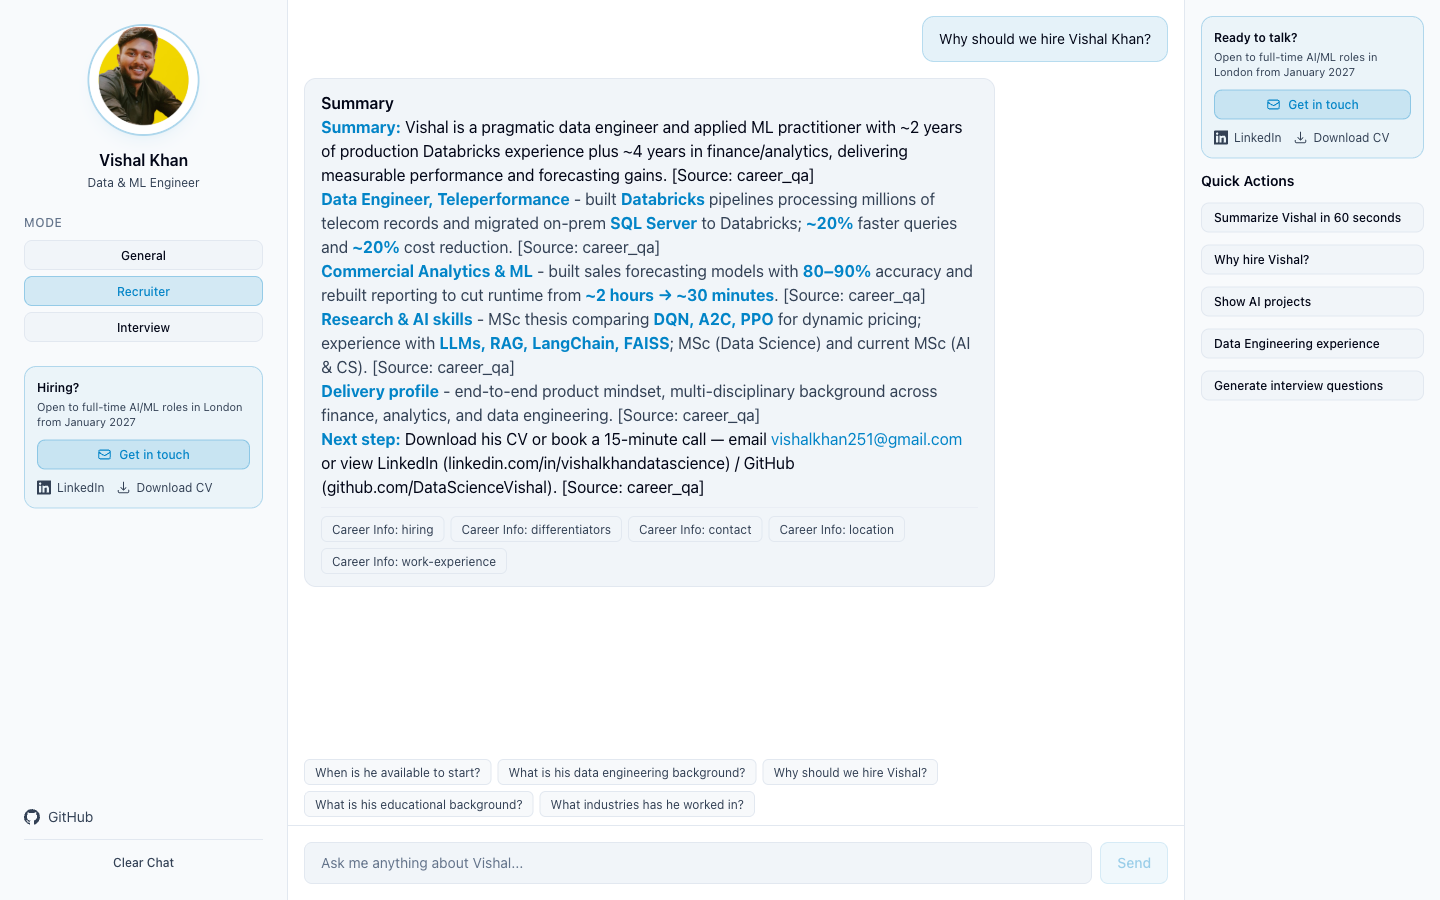
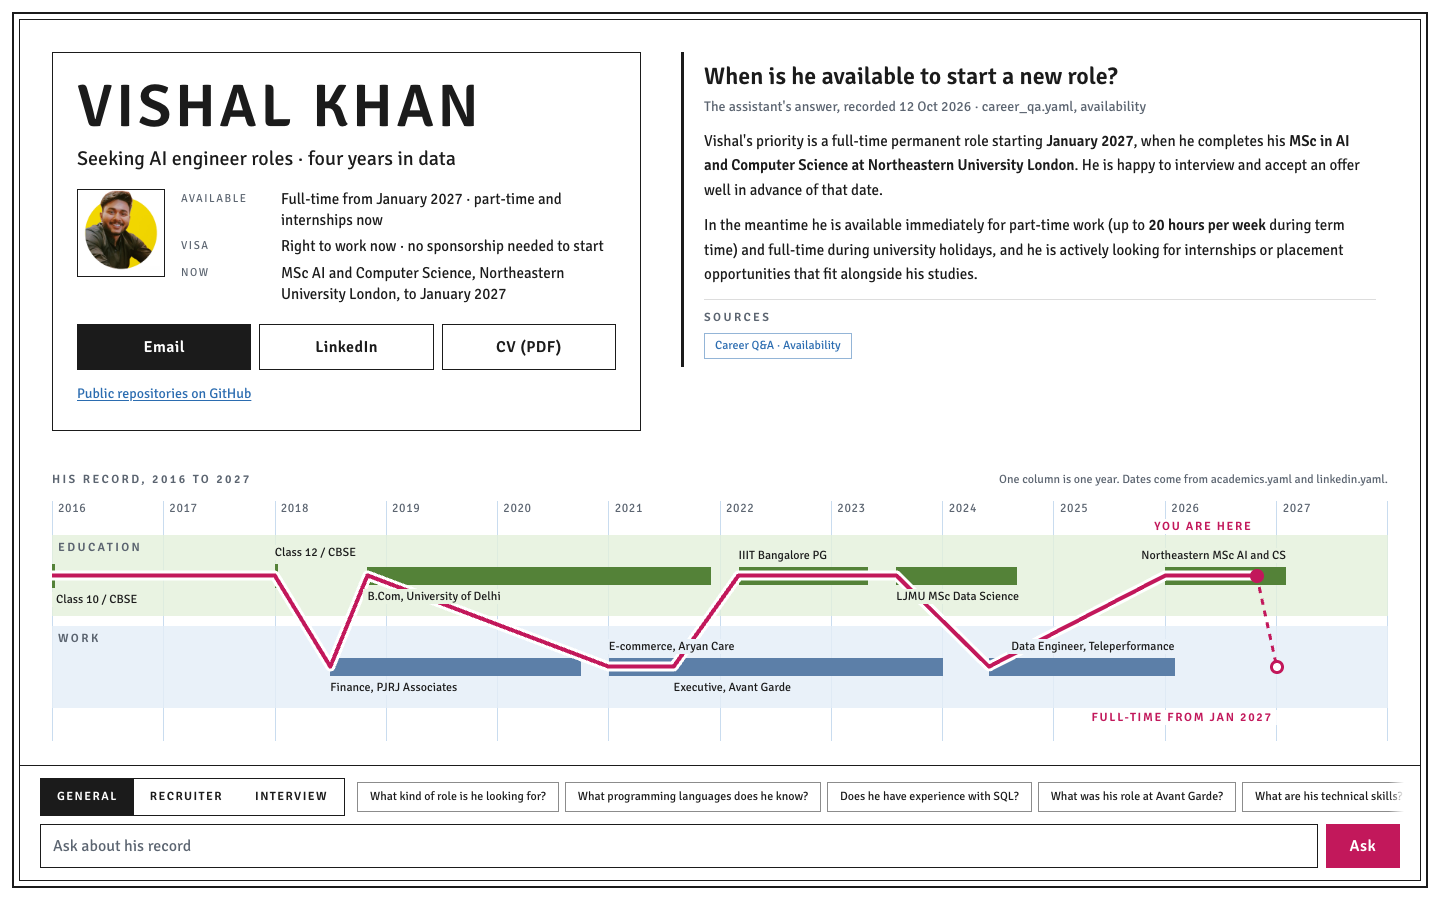
docs: describe the survey sheet in the README and drop the Railway notes
The README now covers the layers, the dated record and /timeline, the
history trim and the last tool call, and the Node version the engines
field asks for, with a fresh screenshot. The frontend README and
.env.example describe the Azure rewrite that vercel.json has instead of
a Railway placeholder.

diff --git a/README.md b/README.md
@@ -16,7 +16,7 @@
 
 ### [→ Try it live at ai-professional-twin.vercel.app](https://ai-professional-twin.vercel.app)
 
-No signup. Pick a mode, ask a question, watch the answer stream in with its sources.
+No signup. Pick a layer, ask a question, and watch the answer stream in with its sources.
 
 </div>
 
@@ -25,7 +25,7 @@ No signup. Pick a mode, ask a question, watch the answer stream in with its sour
   GIF of a live answer streaming in, drop it at docs/demo.gif and point the
   line below at it.
 -->
-![AI Digital Twin chat interface](docs/screenshot.png)
+![The first sheet: the title panel, a recorded answer with its source, and his record from 2016 to 2027 drawn as a route](docs/screenshot.png)
 
 ---
 
@@ -33,8 +33,9 @@ No signup. Pick a mode, ask a question, watch the answer stream in with its sour
 
 - **Answers questions about one person, from evidence.** Every response is generated from a curated knowledge base: YAML files covering projects, skills, education, certifications and career Q&A, plus the resume PDF and live data pulled from public GitHub repositories. **89 documents were indexed** in the running deployment when `/ready` was read on 2026-10-12. Each ingested GitHub repository is one document, so the count changes when one is added or removed.
 - **Shows its working.** Each answer ends with the source chunks it was built from, so you can see whether a claim came from the resume, the academic record, or a repository README.
-- **Three modes for three audiences.** *General* is conversational, *Recruiter* returns a one-line summary plus quantified bullets under 150 words, and *Interview* goes deep on architecture and trade-offs — and renders Mermaid diagrams inline when it explains a system.
-- **Calls tools when static text is not enough.** Eight function-calling tools let the model fetch live repository stats, search repos, compute years of experience, count projects by category, and hand back a resume download link.
+- **Lays the record out as one sheet.** The page opens on a title panel with availability, visa status and the current MSc, one real answer the assistant gave on 12 Oct 2026 with its source, and his education and work drawn as a route from 2016 to 2027 from the dated record at `/timeline`. Opening a source on an answer lights the entries it points at.
+- **Three layers for three audiences.** *General* is conversational, *Recruiter* returns a one-line summary plus quantified bullets under 150 words, and *Interview* goes deep on architecture and trade-offs, and renders Mermaid diagrams inline when it explains a system. Each layer also re-plots the sheet: Recruiter brings the screening facts forward, and Interview lets the record's graphics recede so its system questions lead.
+- **Calls tools when static text is not enough.** Eight function-calling tools let the model fetch repository stats from GitHub (cached for the life of each process), search repos, compute years of experience, count projects by category, and hand back a resume download link.
 - **Declines rather than guesses.** The system prompt forbids fabrication, keeps the assistant inside professional scope, and treats retrieved text as data rather than instructions.
 
 ## Ask it things like
@@ -47,7 +48,7 @@ No signup. Pick a mode, ask a question, watch the answer stream in with its sour
 | What databases has he worked with? | How has he demonstrated impact in previous roles? | How do you handle prompt injection? |
 | What is his experience with RAG systems? | What is his data engineering background? | What would you change about this architecture? |
 
-The UI shuffles a rotating set of these as suggestion chips; the full list lives in [`frontend/src/lib/constants.ts`](frontend/src/lib/constants.ts).
+Recruiter and Interview open on their own curated lists. After the first question, and always on General, the row under the sheet shows five of these, reshuffled after every question. The full lists live in [`frontend/src/lib/constants.ts`](frontend/src/lib/constants.ts).
 
 ## Architecture
 
@@ -57,7 +58,7 @@ flowchart LR
     V["Vercel<br/>static assets + /api rewrite"]
     F["Azure Container Apps<br/>FastAPI app"]
     R["Retriever<br/>intent, boost, threshold"]
-    C[("ChromaDB<br/>cosine, persistent volume")]
+    C[("ChromaDB<br/>cosine, on disk")]
     E["Azure OpenAI<br/>text-embedding-3-small"]
     L["Azure OpenAI<br/>gpt-5-mini"]
     T["Tool registry<br/>8 functions"]
@@ -75,18 +76,19 @@ flowchart LR
     F -->|"SSE stream"| B
 ```
 
-The browser only ever talks to its own origin. Vercel rewrites `/api/:path*` to the Azure Container Apps host with the `/api` prefix stripped, so the FastAPI routes stay unprefixed (`/chat`, `/projects`, `/skills`, `/health`, `/ready`, `/resume/download`) and **there is no CORS in production**. [`frontend/vite.config.ts`](frontend/vite.config.ts) mirrors the same rewrite for local development, so dev and prod behave identically and no build-time env var is needed.
+The browser only ever talks to its own origin. Vercel rewrites `/api/:path*` to the Azure Container Apps host with the `/api` prefix stripped, so the FastAPI routes stay unprefixed (`/chat`, `/projects`, `/skills`, `/timeline`, `/health`, `/ready`, `/resume/download`) and **there is no CORS in production**. [`frontend/vite.config.ts`](frontend/vite.config.ts) mirrors the same rewrite for local development, so dev and prod behave identically and no build-time env var is needed.
 
 | Endpoint | Method | Purpose |
 | --- | --- | --- |
 | `/chat` | POST | SSE stream of answer chunks, tool activity and sources |
 | `/projects`, `/projects/{slug}` | GET | Portfolio data straight from `projects.yaml` |
 | `/skills` | GET | Skill categories from `skills.yaml` |
+| `/timeline` | GET | The dated record behind the route map, from `academics.yaml` and `linkedin.yaml`. A malformed entry is logged and skipped |
 | `/resume/download` | GET | Resume PDF |
 | `/health` | GET | Liveness. Dependency-free, answers during cold start |
 | `/ready` | GET | Readiness. 503 until the store has documents; reports the count |
 
-Splitting liveness from readiness matters: the platform health check points at `/health`, because `/ready` returns 503 until ingestion finishes and would restart-loop a cold boot.
+Splitting liveness from readiness matters: point the platform's health check at `/health`, because `/ready` returns 503 until the store holds its first document and would restart-loop a cold boot.
 
 <details>
 <summary><b>How the RAG pipeline works</b> — ingestion, retrieval, generation</summary>
@@ -122,6 +124,7 @@ GitHub ingestion is best-effort: READMEs are fetched concurrently with a semapho
 | Chunks passed to the model | 5 | `Retriever.top_k` |
 | Candidates fetched from Chroma | `top_k × 4` | `OVERFETCH_FACTOR` |
 | Relevance cutoff | 0.75 cosine distance | `MAX_DISTANCE` |
+| Cutoff for GitHub chunks | 0.55 cosine distance | `SOURCE_MAX_DISTANCE` |
 | Preferred-source boost | 0.12 subtracted from distance | `SOURCE_BOOST` |
 | Prior user turns folded into the query | 2 | `HISTORY_TURNS` |
 
@@ -131,9 +134,9 @@ Follow-up questions like *"what tools did he use?"* embed to almost nothing on t
 
 ### Generation
 
-The system prompt is assembled per request from three parts: a base identity with hard scope and anti-fabrication rules, a mode-specific formatting template, and the retrieved context wrapped in `<retrieved_context>` tags with an explicit instruction that everything inside is untrusted data. Response rules require `[Source: X]` citations and a Mermaid diagram whenever an architecture is explained.
+The system prompt is assembled per request from three parts: a base identity with hard scope and anti-fabrication rules, a mode-specific formatting template, and the retrieved context wrapped in `<retrieved_context>` tags with an explicit instruction that everything inside is untrusted data. Interview answers cite `[Source: X]` inline, while General and Recruiter leave citations to the sources listed under each answer. The response rules also ask for a Mermaid diagram whenever an architecture is explained.
 
-Generation streams over SSE. The tool loop runs up to three rounds of tool calls, emitting `tool_start` and `tool_result` events so the UI can show what the model is doing mid-answer, then `sources` and `done`. Token usage is requested via `stream_options` and logged server-side for cost tracking — it is never forwarded to the browser. Failures mid-stream are caught, logged with the exception type, and replaced with a safe user-facing message so the connection never dies with a blank bubble.
+Generation streams over SSE. The model sees at most the last six turns of the conversation the browser replays, and at most 32,000 bytes of their text. The tool loop runs up to three rounds of tool calls, and the call after the last round offers no tools, so it has to answer. Tool calls emit `tool_start` and `tool_result` events so the UI can show what the model is doing mid-answer, and the stream ends with `sources` and `done`. Token usage is requested via `stream_options` and logged server-side for cost tracking, and never forwarded to the browser. Failures mid-stream are caught, logged with the exception type, and replaced with a safe user-facing message so the connection never dies with a blank answer.
 
 </details>
 
@@ -150,7 +153,7 @@ Generation streams over SSE. The tool loop runs up to three rounds of tool calls
 
 **Retrieved context is untrusted input.** Part of the knowledge base is ingested automatically from public GitHub READMEs, which is a live prompt-injection surface. Context is delimited in `<retrieved_context>` tags, the prompt states that everything inside is data rather than instructions, and the response rules repeat the constraint and forbid echoing any injected instruction back to the user. Neither is a guarantee, but the alternative — pasting third-party markdown straight into the system prompt — is strictly worse.
 
-**Two independent cost controls.** A per-IP `slowapi` limit (10 requests/minute on `/chat`, 60/minute elsewhere) stops one visitor hammering the endpoint, and a global daily completion budget caps total spend across all visitors. Exhausting the budget returns a polite SSE message pointing at the contact link instead of a 500. The budget counter is in process memory, so with multiple replicas the effective cap is `budget × replicas` — documented in the code, and fine for a single-instance personal site.
+**Cost controls.** A per-IP `slowapi` limit (10 requests/minute on `/chat`, 60/minute elsewhere) stops one visitor hammering the endpoint, and a global daily completion budget caps the number of answers across all visitors. Each answer has a ceiling too: the history trim above bounds what the model reads, and the last call offers no tools. Exhausting the budget returns an SSE refusal with a `budget_exhausted` code, which the page follows with an email link, instead of a 500. The budget counter is in process memory, so with multiple replicas the effective cap is `budget × replicas`. That is documented in the code, and fine for a single-instance personal site.
 
 **Temperature is omitted for GPT-5-family models.** GPT-5 and o-series deployments reject any non-default temperature with an HTTP 400, and take the output cap as `max_completion_tokens` rather than `max_tokens`. The client detects the family from the model name and adjusts both, with `LLM_SEND_TEMPERATURE` available to override the heuristic when a deployment disagrees.
 
@@ -169,7 +172,7 @@ Generation streams over SSE. The tool loop runs up to three rounds of tool calls
 | Streaming | `sse-starlette` | Typed SSE events consumed by a hand-rolled reader |
 | Throttling | `slowapi` + in-process daily budget | Per-IP limits and a global spend ceiling |
 | Logging | `structlog` | One structured `chat_query` event per request |
-| Frontend | React 19, Vite, TypeScript, Tailwind CSS 4 | `react-markdown` + `rehype-highlight`, `framer-motion` |
+| Frontend | React 19, Vite, TypeScript, Tailwind CSS 4 | `react-markdown` + `rehype-highlight`, `framer-motion`, Signika from `@fontsource` (OFL-1.1, licence shipped in `public/licenses/`) |
 | Diagrams | `mermaid` | Rendered client-side in Interview mode |
 | Tests | pytest + `pytest-asyncio`, Vitest + Testing Library | Azure OpenAI is mocked, so CI needs no Azure key |
 | Quality | ruff, mypy (strict), oxlint, `tsc` | All enforced in CI |
@@ -177,7 +180,7 @@ Generation streams over SSE. The tool loop runs up to three rounds of tool calls
 
 ## Local development
 
-Prerequisites: Python 3.12, [uv](https://docs.astral.sh/uv/), Node 20+.
+Prerequisites: Python 3.12, [uv](https://docs.astral.sh/uv/), Node 22.22.2 or later (CI uses Node 24).
 
 **Backend**
 
@@ -198,7 +201,7 @@ npm run dev
 
 Then open http://localhost:5173. The Vite dev server proxies `/api/*` to `http://localhost:8000` with the prefix stripped, mirroring the Vercel rewrite — **no frontend environment variable is required**. `VITE_API_URL` exists only as an escape hatch for pointing a local UI at a deployed backend.
 
-Without Azure credentials the app still boots and serves `/health`, `/projects` and `/skills`; `/ready` will report the misconfiguration and chat will be disabled.
+Without Azure credentials the app still boots and serves `/health`, `/projects`, `/skills` and `/timeline`; `/ready` will report the misconfiguration and chat will be disabled. The exception is a set `GITHUB_TOKEN`: the app then tries it as the model key, so chat stays enabled and its answers fail.
 
 <details>
 <summary><b>Configuration</b> — environment variables and defaults</summary>
@@ -210,7 +213,7 @@ Backend variables are read by [`backend/app/config.py`](backend/app/config.py) f
 | Variable | Default | Purpose |
 | --- | --- | --- |
 | `AZURE_OPENAI_ENDPOINT` | *(empty)* | Azure OpenAI / AI Foundry resource endpoint |
-| `AZURE_OPENAI_API_KEY` | *(empty)* | API key. Without it, chat and embeddings are disabled |
+| `AZURE_OPENAI_API_KEY` | *(empty)* | API key. Without it, chat and embeddings are disabled, unless `GITHUB_TOKEN` is set and tried in its place |
 | `AZURE_OPENAI_API_VERSION` | `2024-10-21` | Azure API version |
 | `LLM_MODEL` | `gpt-5-mini` | Chat deployment name |
 | `EMBEDDING_MODEL` | `text-embedding-3-small` | Embedding deployment name |
@@ -277,7 +280,7 @@ npm run test       # vitest run
 npm run build      # tsc -b && vite build
 ```
 
-The pytest suite mirrors the `app/` tree: chunkers, embedding batching, the Chroma store and manifest, retriever ranking and intent classification, prompt assembly, every router, the LLM client's parameter handling and tool loop, the rate limiter and daily budget, and each tool. The Vitest suite covers the SSE client (including events split across chunk boundaries and the `content-type` guard), the chat hook's streaming state machine, Mermaid repair, the project grid and skill summary shown before the first message, and the suggestion-chip logic.
+The pytest suite mirrors the `app/` tree: chunkers, embedding batching, the Chroma store and manifest, retriever ranking and intent classification, prompt assembly, every router, the LLM client's parameter handling and tool loop, the rate limiter and daily budget, and each tool. The Vitest suite covers the SSE client (including events split across chunk boundaries and the `content-type` guard), the chat hook's streaming state machine, Mermaid repair, the dated record and the route map and text strip drawn from it, the title panel and contact bar, the layers and their questions, source references that light what they cite, the builds, skills and sources lists, and the page's search and share descriptions.
 
 ## Project structure
 
@@ -301,14 +304,18 @@ The pytest suite mirrors the `app/` tree: chunkers, embedding batching, the Chro
 │   ├── Dockerfile           # multi-stage uv build
 │   └── railway.toml         # Railway config, not used by the live site
 ├── frontend/
+│   ├── public/              # share card, favicon, font licence
+│   ├── scripts/og-card/     # the share card's source and its provenance stamp
 │   ├── src/
-│   │   ├── components/      # chat, layout, modes, projects, ui
-│   │   ├── hooks/           # use-chat (SSE state machine), use-projects
-│   │   ├── lib/             # api client, constants, shared types
+│   │   ├── components/      # chat, sheet (title panel, route map, layers, lists), ui
+│   │   ├── hooks/           # use-chat (SSE state machine), use-timeline, use-projects, use-skills
+│   │   ├── lib/             # api client, the dated record, source labels, constants, shared types
 │   │   └── pages/
 │   ├── vercel.json          # /api rewrite to Azure Container Apps, then SPA fallback
 │   └── vite.config.ts       # dev proxy mirroring the Vercel rewrite
-└── .github/workflows/ci.yml
+└── .github/workflows/
+    ├── ci.yml               # lint, types, tests and build for both halves
+    └── deploy-backend.yml   # builds the backend image and publishes it to GHCR
 ```
 
 <details>
@@ -321,8 +328,8 @@ The pytest suite mirrors the `app/` tree: chunkers, embedding batching, the Chro
 - **The daily budget is per process.** Multiple replicas each get their own allowance. A shared counter in Redis would make the cap exact.
 - **No automated answer evaluation.** There is no golden-question set scored on groundedness or citation accuracy, so knowledge-base regressions are caught by reading answers rather than by CI.
 - **Conversation memory is a two-turn concatenation.** It works for simple follow-ups and will not survive a long topic-switching conversation.
-- **Time-sensitive knowledge is maintained by hand.** Entries covering availability, visa status and term dates are flagged in the YAML but still need a human to refresh them.
-- **No conversation persistence or analytics on question topics** beyond the structured `chat_query` log line.
+- **Time-sensitive knowledge is maintained by hand.** Entries covering availability, visa status and term dates are flagged in the YAML but still need a human to refresh them. The page's own copy treats January 2027 as the future, so a test in `constants.test.ts` fails from 5 January 2027 until that copy is reviewed.
+- **No conversation persistence.** A reload starts a new conversation, and the question log keeps no answers.
 
 </details>
 

diff --git a/frontend/README.md b/frontend/README.md
@@ -13,7 +13,7 @@ React 19 + Vite + Tailwind 4 UI for the professional profile assistant.
 | `npm run test:watch`| Vitest in watch mode                          |
 | `npm run build`     | Type check + production build to `dist/`      |
 
-## API routing — READ THIS BEFORE DEPLOYING
+## API routing: read this before deploying
 
 The frontend always calls the **same-origin** path `/api/...`. Nothing else is
 configured at build time: there is no CORS setup and no required env var.
@@ -21,8 +21,8 @@ configured at build time: there is no CORS setup and no required env var.
 The backend routes are **not** prefixed:
 
 ```
-/chat            /projects        /skills
-/health          /resume/download
+/chat            /projects        /skills          /timeline
+/health          /ready           /resume/download
 ```
 
 So both proxies must **strip the `/api` prefix** when forwarding:
@@ -30,27 +30,23 @@ So both proxies must **strip the `/api` prefix** when forwarding:
 | Environment | Browser requests | Proxy                             | Backend receives      |
 | ----------- | ---------------- | --------------------------------- | --------------------- |
 | Local dev   | `/api/chat`      | `vite.config.ts` `server.proxy`   | `localhost:8000/chat` |
-| Production  | `/api/chat`      | `vercel.json` rewrite             | `<railway>/chat`      |
+| Production  | `/api/chat`      | `vercel.json` rewrite             | `<backend host>/chat` |
 
-### ⚠ `vercel.json` needs your Railway URL
+### The rewrite in `vercel.json`
 
 JSON cannot hold comments, so the note lives here. `frontend/vercel.json`
-contains a literal placeholder you must replace before the deploy will work:
+sends every `/api` request to the backend on Azure Container Apps:
 
 ```json
 {
   "source": "/api/:path*",
-  "destination": "https://RAILWAY_BACKEND_URL_PLACEHOLDER/:path*"
+  "destination": "https://ai-twin-api.bravecoast-78fd612a.francecentral.azurecontainerapps.io/:path*"
 }
 ```
 
-Replace `RAILWAY_BACKEND_URL_PLACEHOLDER` with the Railway host, **hostname
-only** — no scheme (the `https://` is already there), no trailing slash, no
-`/api` segment. For example:
-
-```json
-"destination": "https://ai-twin-api.bravecoast-78fd612a.francecentral.azurecontainerapps.io/:path*"
-```
+If the backend moves, change the host there. Give the hostname only: the
+`https://` is already there, and there is no trailing slash and no `/api`
+segment.
 
 Two things matter about this rewrite:
 
